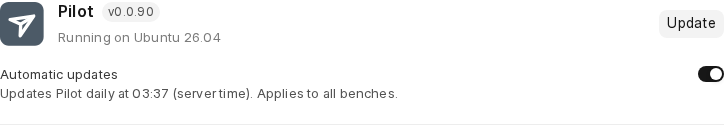
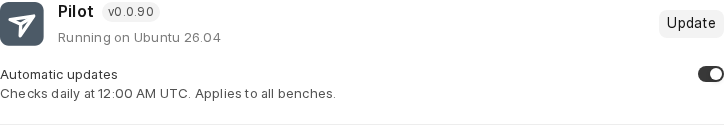
Set the Pilot auto-update preview to midnight UTC

Changed region(s): [[0.0, 0.696, 0.547, 0.816], [0.942, 0.528, 1.0, 0.672]]

diff --git a/plans/pilot-overnight-stack/index.html b/plans/pilot-overnight-stack/index.html
@@ -30,7 +30,7 @@ ul.log { padding-left:18px; color:var(--muted); font-size:.9rem; } ul.log b { co
 </style></head><body><main>
 <h1>Pilot overnight stack</h1>
 <p class="lead">The first eight reviewed Pilot changes are merged into develop. A follow-up adds a minimal automatic-update switch in Settings &gt; About. It is built and tested locally on feat/auto-update-ui.</p>
-<p class="lead">Progress: 9 of 9 done. Updated 2026-11-04 18:10 IST.</p>
+<p class="lead">Progress: 9 of 9 done. Updated 2026-11-04 18:21 IST.</p>
 <div class="bar" role="img" aria-label="9 of 9 done"><span></span></div>
 <section class="card"><header><span class="step">1</span><h2><a href="https://github.com/frappe/pilot/issues/591">#591</a> Configurable Nginx ports</h2>
 <span class="badge done">Merged</span></header>
@@ -50,7 +50,7 @@ ul.log { padding-left:18px; color:var(--muted); font-size:.9rem; } ul.log b { co
 <span class="badge done">Merged</span></header>
 <dl><dt>Scope</dt><dd>On your note, there are no WHOIS, RDAP, DNS or HTTP checks. Pilot never connects to a domain, so a Sleepy VM stays asleep. All state comes from the certificate files and certbot&#x27;s results.</dd><dt>Root cause</dt><dd>A failed issue or renewal was only printed in the task log. The domain list showed a plain lock, so a broken domain looked the same as one waiting for a certificate.</dd><dt>Change</dt><dd>bench.certificates keeps one record per certificate in logs/certificates.json: the names asked for, the names the file covers, the expiry, and certbot&#x27;s last error. Each obtain records its result, and the daily certificate timer reads each file again. Certbot now writes its output to the task log, and a failure keeps certbot&#x27;s reason (Domain, Type, Detail) instead of a generic footer.</dd><dt>Domain status</dt><dd>valid, pending, failed, expiring (under 14 days, so renewal is not working) or expired. The last three mean the domain is broken. A new domain that fails does not mark the names the current file still covers as broken. A renewal failure inside the 30-day window marks every name as failed.</dd><dt>Alerts</dt><dd>A certificate that breaks raises one certificate_failed or certificate_expiry alert to the feed, mail and webhooks. Pilot alerts again only after the certificate was valid and then broke again.</dd><dt>Test server</dt><dd>Port 80 was blocked for one minute and a new domain was added. Certbot failed, the domain showed &#x27;Certificate failed&#x27; with certbot&#x27;s reason, and one signed certificate_failed webhook arrived. A second failed run did not alert again. With port 80 open, the timer added the domain to the certificate, both domains showed valid, and the alert was reset.</dd><dt>Tests</dt><dd>New tests: each state, a failed new domain does not break covered names, a new domain waits, a success clears the failure, alert once until valid again, issue failure recorded and alerted, the domain row status, certbot&#x27;s reason kept, and the UI badge and tooltip. Tests never shell out to sudo for certificate files.</dd><dt>Branch</dt><dd>feat/tls-status, based on feat/default-alerts</dd><dt>Review UI</dt><dd>The final screenshot uses simulated API responses in the real dashboard to show every state. It is not live certificate evidence. An expiring certificate currently has a red open lock, even while HTTPS still works.</dd><dt>Screens</dt><dd class="shots"><figure><img src="img/386-reviewed-states.png" alt="Real dashboard with simulated valid, expiring, expired, failed and pending certificates." loading="lazy"><figcaption>Real dashboard with simulated valid, expiring, expired, failed and pending certificates.</figcaption></figure></dd><dt>Pull request</dt><dd><a href="https://github.com/frappe/pilot/pull/782">https://github.com/frappe/pilot/pull/782</a></dd></dl></section><section class="card"><header><span class="step">9</span><h2>Automatic Pilot updates in Settings &gt; About</h2>
 <span class="badge done">Built locally</span></header>
-<dl><dt>UI</dt><dd>One default Frappe UI switch below the Pilot version. It saves immediately. The note gives the daily 03:37 schedule in server time and says that the setting applies to all benches.</dd><dt>Source installs</dt><dd>The switch is disabled and says Unavailable for source installs. The API also rejects changes on a source install.</dd><dt>Save errors</dt><dd>The switch keeps its previous value and shows the error. A failed cron change keeps the stored setting. Concurrent changes use the common config lock.</dd><dt>Checks</dt><dd>22 focused backend tests, three browser tests and all 91 frontend unit tests pass. Lint, type checking and the production dashboard build pass. Browser tests cover reload, failed saves and source installs.</dd><dt>Branch</dt><dd>feat/auto-update-ui. Built locally; no Pilot commit or pull request yet.</dd><dt>Screens</dt><dd>The real dashboard uses simulated release and source-install responses here. These previews do not change the host cron job.</dd><dt>Screens</dt><dd class="shots"><figure><img src="img/auto-update-enabled.png" alt="Release install: the switch is on. The version and OS are sample values." loading="lazy"><figcaption>Release install: the switch is on. The version and OS are sample values.</figcaption></figure><figure><img src="img/auto-update-source.png" alt="Source install: the switch is disabled with a short explanation." loading="lazy"><figcaption>Source install: the switch is disabled with a short explanation.</figcaption></figure></dd></dl></section>
+<dl><dt>UI</dt><dd>One default Frappe UI switch below the Pilot version. It saves immediately. Checks run daily at 12:00 AM UTC for all benches. There is no time picker.</dd><dt>Source installs</dt><dd>The switch is disabled and says Unavailable for source installs. The API also rejects changes on a source install.</dd><dt>Save errors</dt><dd>The switch keeps its previous value and shows the error. A failed cron change keeps the stored setting. Concurrent changes use the common config lock.</dd><dt>Checks</dt><dd>41 focused backend and cron tests pass. Three browser tests, type checking and the dashboard build pass. The UTC guard is checked at midnight and at other times, with a non-UTC server timezone. Upgrade tests cover disabled hosts, repeated runs and a failed cron change.</dd><dt>Branch</dt><dd>feat/auto-update-ui. Built locally; no Pilot commit or pull request yet.</dd><dt>Screens</dt><dd>The real dashboard uses simulated release and source-install responses here. These previews do not change the host cron job.</dd><dt>Schedule</dt><dd>A short cron command checks the UTC clock each minute. It starts Pilot only at midnight UTC. The server timezone does not change this time. An upgrade patch replaces the old schedule only on hosts where automatic updates are already on.</dd><dt>Screens</dt><dd class="shots"><figure><img src="img/auto-update-enabled.png" alt="Release install: the switch is on. The version and OS are sample values." loading="lazy"><figcaption>Release install: the switch is on. The version and OS are sample values.</figcaption></figure><figure><img src="img/auto-update-source.png" alt="Source install: the switch is disabled with a short explanation." loading="lazy"><figcaption>Source install: the switch is disabled with a short explanation.</figcaption></figure></dd></dl></section>
 <section class="card"><header><h2>Final checks after review</h2></header>
 <p class="lead">These checks ran at stack tip eda9f204, based on develop at 876059e9. Earlier live checks below describe the first test server deployment. The server was not deployed again after the local UI review.</p><table><thead><tr><th>Item</th><th>Result</th><th>Evidence</th></tr></thead><tbody><tr><td>Python suite</td><td><span class="badge note">note</span></td><td>4169 passed, one skipped, one failed. The failing process-timeout test matched an unrelated agent shell. The earlier deselection used an old path, so this test still ran.</td></tr><tr><td>Process timeout</td><td><span class="badge ok">ok</span></td><td>All 12 command-runner tests passed in a fresh PID namespace. This removes the unrelated shell from the test&#x27;s global pgrep search.</td></tr><tr><td>Frontend</td><td><span class="badge ok">ok</span></td><td>All 91 unit tests passed. Type generation and vue-tsc --noEmit passed.</td></tr><tr><td>Static checks</td><td><span class="badge ok">ok</span></td><td>Ruff, git diff --check and a scan for test credentials and private test infrastructure passed.</td></tr><tr><td>GitHub CI</td><td><span class="badge note">note</span></td><td>Checks were queued when the branches were published. All eight pull requests have since merged. Local test results are recorded above.</td></tr></tbody></table>
 </section><section class="card"><header><h2>PRs merged on 3 November</h2></header>
@@ -58,7 +58,7 @@ ul.log { padding-left:18px; color:var(--muted); font-size:.9rem; } ul.log b { co
 </section><section class="card"><header><h2>Settings &gt; Database check</h2></header>
 <p class="lead">All actions were run through the UI on the test server.</p><table><thead><tr><th>Item</th><th>Result</th><th>Evidence</th></tr></thead><tbody><tr><td>Cards: memory, buffer pool, max connections</td><td><span class="badge ok">ok</span></td><td>Values match the host (7.8 GB RAM, 50 % share, 1.5 GB buffer pool).</td></tr><tr><td>Max connections edit to 60</td><td><span class="badge ok">ok</span></td><td>Ran as a task and succeeded. MariaDB then reported @@max_connections = 60.</td></tr><tr><td>Memory split dialog, binary logs dialog</td><td><span class="badge ok">ok</span></td><td>Both open with the current values.</td></tr><tr><td>Variable list and editor</td><td><span class="badge ok">ok</span></td><td>Tabs, search, Recommended and Allowed ranges show correctly.</td></tr><tr><td>Buffer pool input clipped, header cut off, 2^64 shown as TB</td><td><span class="badge fixed">fixed</span></td><td>See the first card on this page.</td></tr><tr><td>Focus ring on &#x27;Bench&#x27; when the page opens from its URL</td><td><span class="badge note">note</span></td><td>The dialog focuses its first button. It shows only without a click. Not changed.</td></tr></tbody></table>
 <dl><dt>Screens</dt><dd class="shots"><figure><img src="img/db-overview.webp" alt="Settings &gt; Database on the test server." loading="lazy"><figcaption>Settings &gt; Database on the test server.</figcaption></figure><figure><img src="img/db-variable-editor.webp" alt="Variable editor for innodb_buffer_pool_size." loading="lazy"><figcaption>Variable editor for innodb_buffer_pool_size.</figcaption></figure></dd></dl></section><section class="card"><header><h2>Enable automatic Pilot updates</h2></header>
-<p class="lead">Run these commands on the installed host as the Pilot user.</p><table><thead><tr><th>Item</th><th>Result</th><th>Evidence</th></tr></thead><tbody><tr><td>Enable</td><td><span class="badge note">note</span></td><td>pilot admin auto-update on</td></tr><tr><td>Check</td><td><span class="badge note">note</span></td><td>pilot admin auto-update status</td></tr><tr><td>Disable</td><td><span class="badge note">note</span></td><td>pilot admin auto-update off</td></tr><tr><td>Schedule</td><td><span class="badge note">note</span></td><td>The cron job runs each day at 03:37 in the host timezone. It updates Pilot and restarts Admin for each bench.</td></tr><tr><td>Source installs</td><td><span class="badge note">note</span></td><td>A source checkout with version dev is skipped.</td></tr></tbody></table>
+<p class="lead">Run these commands on the installed host as the Pilot user.</p><table><thead><tr><th>Item</th><th>Result</th><th>Evidence</th></tr></thead><tbody><tr><td>Enable</td><td><span class="badge note">note</span></td><td>pilot admin auto-update on</td></tr><tr><td>Check</td><td><span class="badge note">note</span></td><td>pilot admin auto-update status</td></tr><tr><td>Disable</td><td><span class="badge note">note</span></td><td>pilot admin auto-update off</td></tr><tr><td>Schedule</td><td><span class="badge note">note</span></td><td>Pilot checks for updates daily at 12:00 AM UTC. A newer release updates Pilot and restarts Admin for each bench.</td></tr><tr><td>Source installs</td><td><span class="badge note">note</span></td><td>A source checkout with version dev is skipped.</td></tr></tbody></table>
 </section>
-<h3>Log</h3><ul class="log"><li><b>Follow-up</b> Built and tested the automatic-update switch locally. The original eight changes remain merged.</li><li><b>Merged</b> All eight pull requests, #775 through #782, merged into develop. The last merge completed at 12:25 UTC on 4 November.</li><li><b>Validation</b> The final Python run had 4169 passed, one skipped and one process-matcher failure caused by an unrelated agent shell. All 12 command-runner tests then passed in an isolated process namespace. Lint, type checking, all 91 frontend tests and the secret scan passed.</li><li><b>Published</b> All eight branches were pushed. Pull requests #775 through #782 are open and linked to the work thread.</li><li><b>Base</b> The stack was rebased onto develop at 876059e9, which includes the domain setup changes from #771.</li><li><b>Review</b> Eight branches remain. Reviewed UI changes cover config editing, database sizing, failed updates, S3 backups, webhooks and TLS state.</li><li><b>Scope</b> Vector was removed from the plan. The separate Update code &amp; retry feature was dropped during review.</li></ul>
+<h3>Log</h3><ul class="log"><li><b>Schedule</b> The automatic-update check now runs daily at 12:00 AM UTC. The UI keeps one switch and no time picker.</li><li><b>Follow-up</b> Built and tested the automatic-update switch locally. The original eight changes remain merged.</li><li><b>Merged</b> All eight pull requests, #775 through #782, merged into develop. The last merge completed at 12:25 UTC on 4 November.</li><li><b>Validation</b> The final Python run had 4169 passed, one skipped and one process-matcher failure caused by an unrelated agent shell. All 12 command-runner tests then passed in an isolated process namespace. Lint, type checking, all 91 frontend tests and the secret scan passed.</li><li><b>Published</b> All eight branches were pushed. Pull requests #775 through #782 are open and linked to the work thread.</li><li><b>Base</b> The stack was rebased onto develop at 876059e9, which includes the domain setup changes from #771.</li><li><b>Review</b> Eight branches remain. Reviewed UI changes cover config editing, database sizing, failed updates, S3 backups, webhooks and TLS state.</li><li><b>Scope</b> Vector was removed from the plan. The separate Update code &amp; retry feature was dropped during review.</li></ul>
 </main></body></html>
